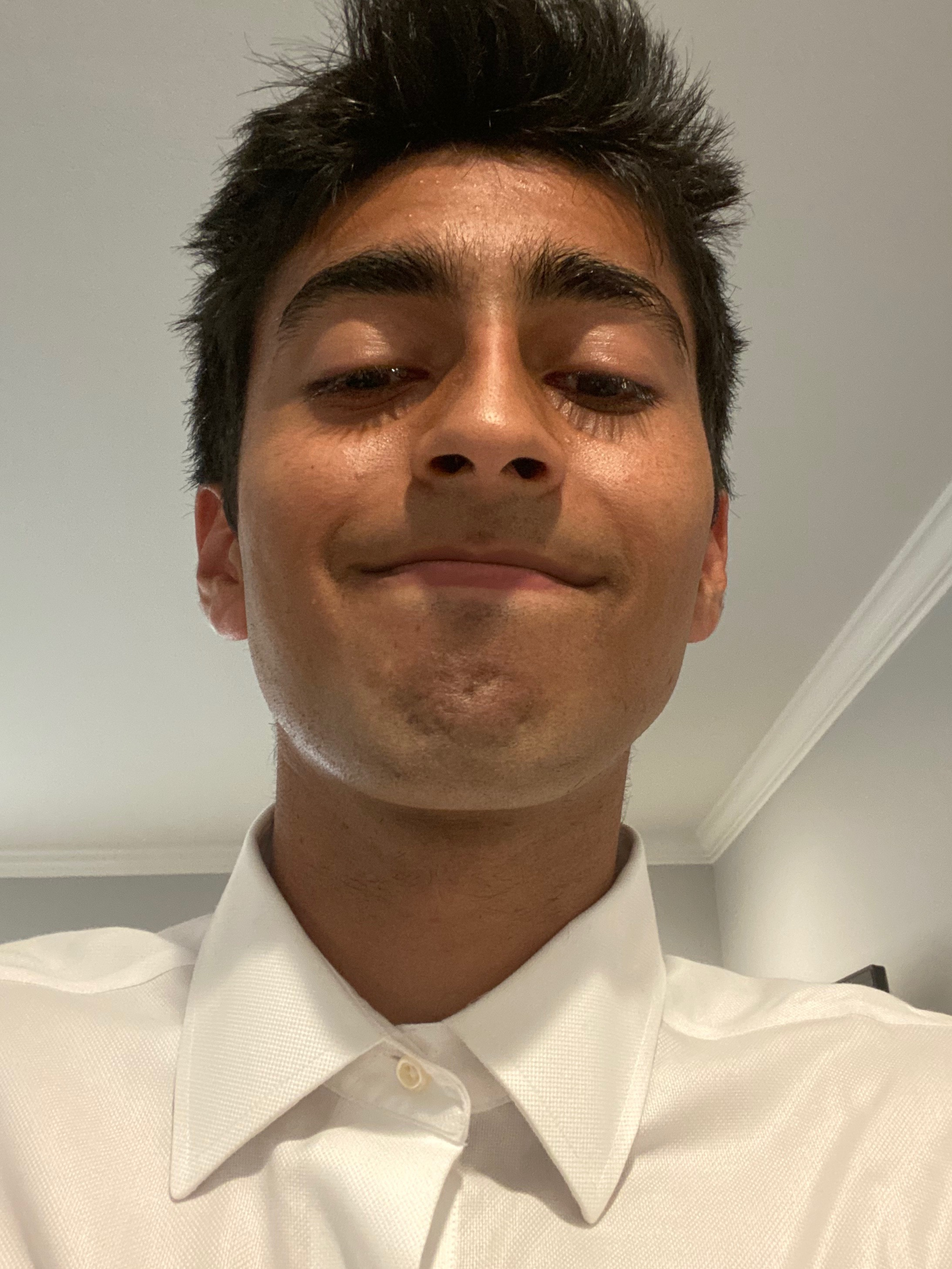
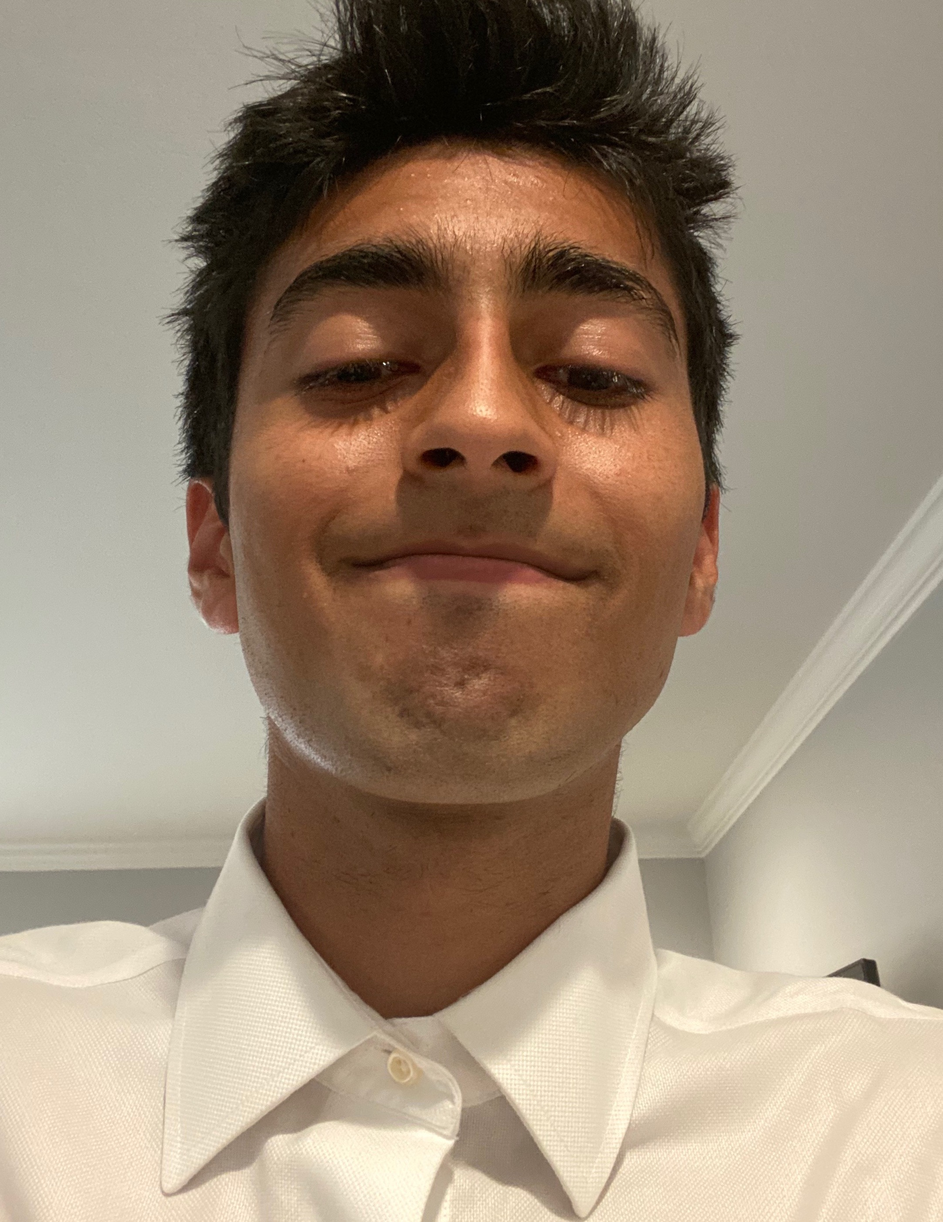
Getting there

diff --git a/index.html b/index.html
@@ -73,16 +73,18 @@
 
       <br>
       <p>
-        <img class="ui left floated rounded small image" alt="Ammar Safdari headshot" src="./assets/images/headshot.jpg">
+        <img class="ui left floated rounded small image" alt="Ammar Safdari headshot" src="./assets/images/headshot2.jpeg">
 
-        I am a student at the University of Michigan Ann Arbor, majoring in Computer Science and
-         Physics. My interests reside in Web Systems, Machine Learning, AI,
+        I am currenly a student at the University of Michigan Ann Arbor, majoring in Computer Science and
+         Interdisciplinary Physics. My academic interests reside in Web Systems, Machine Learning, AI, batteries, superconducting materials,
          and renewable energy technologies. I currently work as an employee of Sandia National Labs,
-         helping with the software development of an initiative called <a href="https://www.batteryarchive.org/"> BatteryArchive.org. </a> Also to
-         clarify the image on the left is a meme.
+         helping with the open source software development of a battery initiative called <a href="https://www.batteryarchive.org/"> BatteryArchive.org  </a>,
+         which is described in greater detail below. In my free time I love to read fiction novels and play chess.
+        If you'd like to get in touch to work on coding projects or even just to discuss book recs or play chess online please reach out!
+
       </p>
     </header>
-    <div class="ui hidden section divider"></div>
+
 
 
     <!-- Internal links -->
@@ -701,7 +703,7 @@
         </div><!-- /column -->
         <div class="four wide column center aligned">
           <div class="ui inverted link list">
-            <a class="item" href="https://github.com/awdeorio/" target="_blank">
+            <a class="item" href="https://github.com/asafdari-boop/" target="_blank">
               <i class="github icon"></i>
               GitHub
             </a>
@@ -710,7 +712,7 @@
         <div class="four wide column center aligned">
           <div class="ui inverted link list">
             <div class="item">
-              <a class="item" href="https://www.linkedin.com/in/awdeorio/" target="_blank">
+              <a class="item" href="https://www.linkedin.com/in/ammar-safdari-b4b77819b/" target="_blank">
                 <i class="ui icon linkedin"></i>
                 LinkedIN
               </a>
